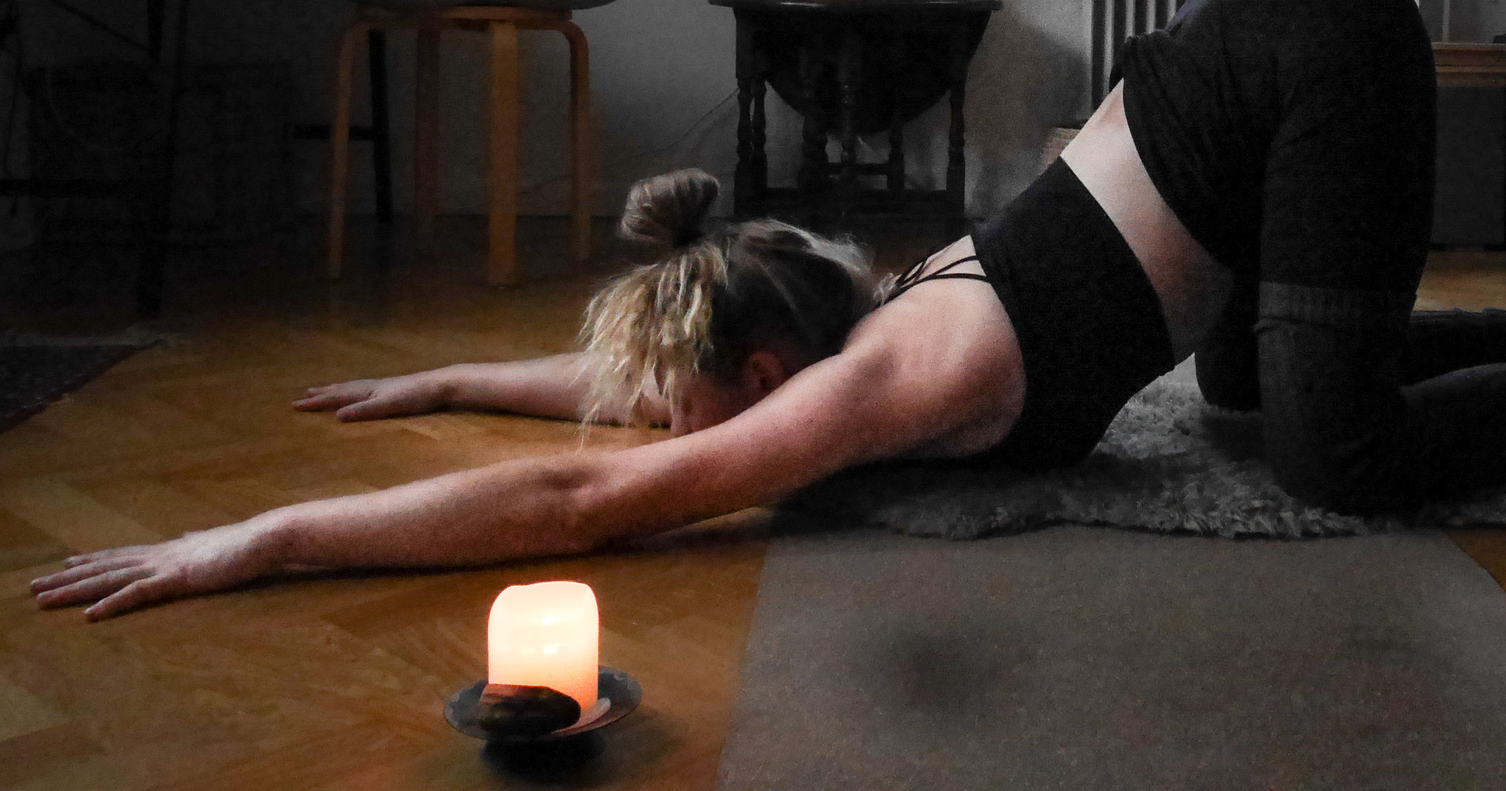
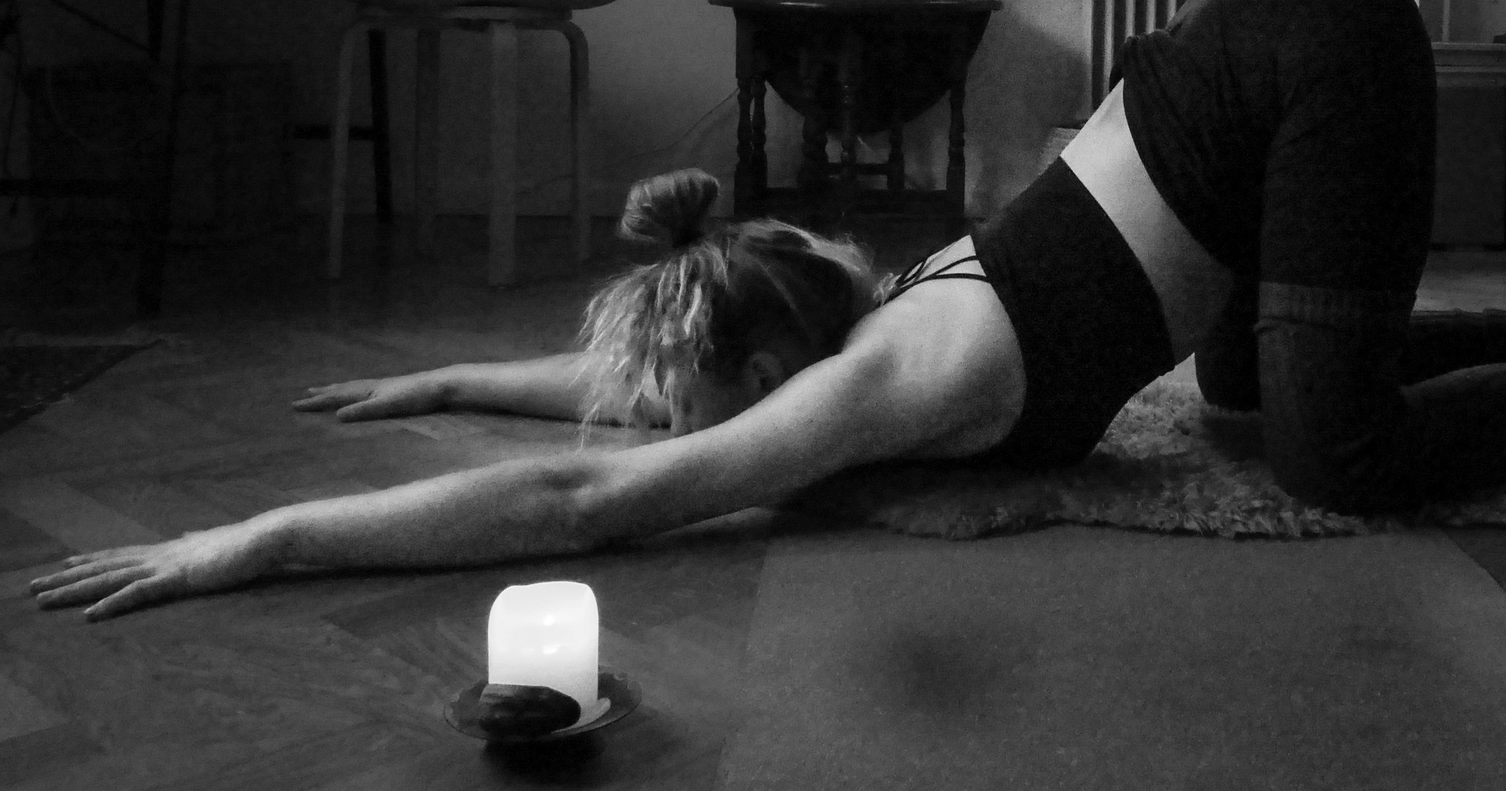
pillar css

diff --git a/src/style/_base.scss b/src/style/_base.scss
@@ -1,3 +1,40 @@
+$background: #121212;
+$white: #FCFCFC;
+$mainBrandColor: #FFBD59;
+$secondaryBrandColor: #51B4BC;
+
+// general
+@font-face {
+    font-family: "migraBold";
+    src: url(/public/fonts/Migra\ Extrabold\ 800.otf);
+}
+
+@font-face {
+    font-family: "migraLight";
+    src: url(/public/fonts/Migra\ Extralight\ 200.otf);
+}
+
 body{
-    
+    background-color: $background;
+    color: $white;
+}
+
+h1, h2, h3{
+    font-family: "migraBold";
+}
+
+h1, h2{
+    color: $mainBrandColor;
+}
+
+img{
+    -webkit-filter: grayscale(100%); /* Safari 6.0 - 9.0 */
+    filter: grayscale(100%);
+}
+
+header{
+    min-height: 100vh;
+    background-image: url("/public/images/puppy.jpg");
+    background-position: center;
+    background-size: cover;
 }
